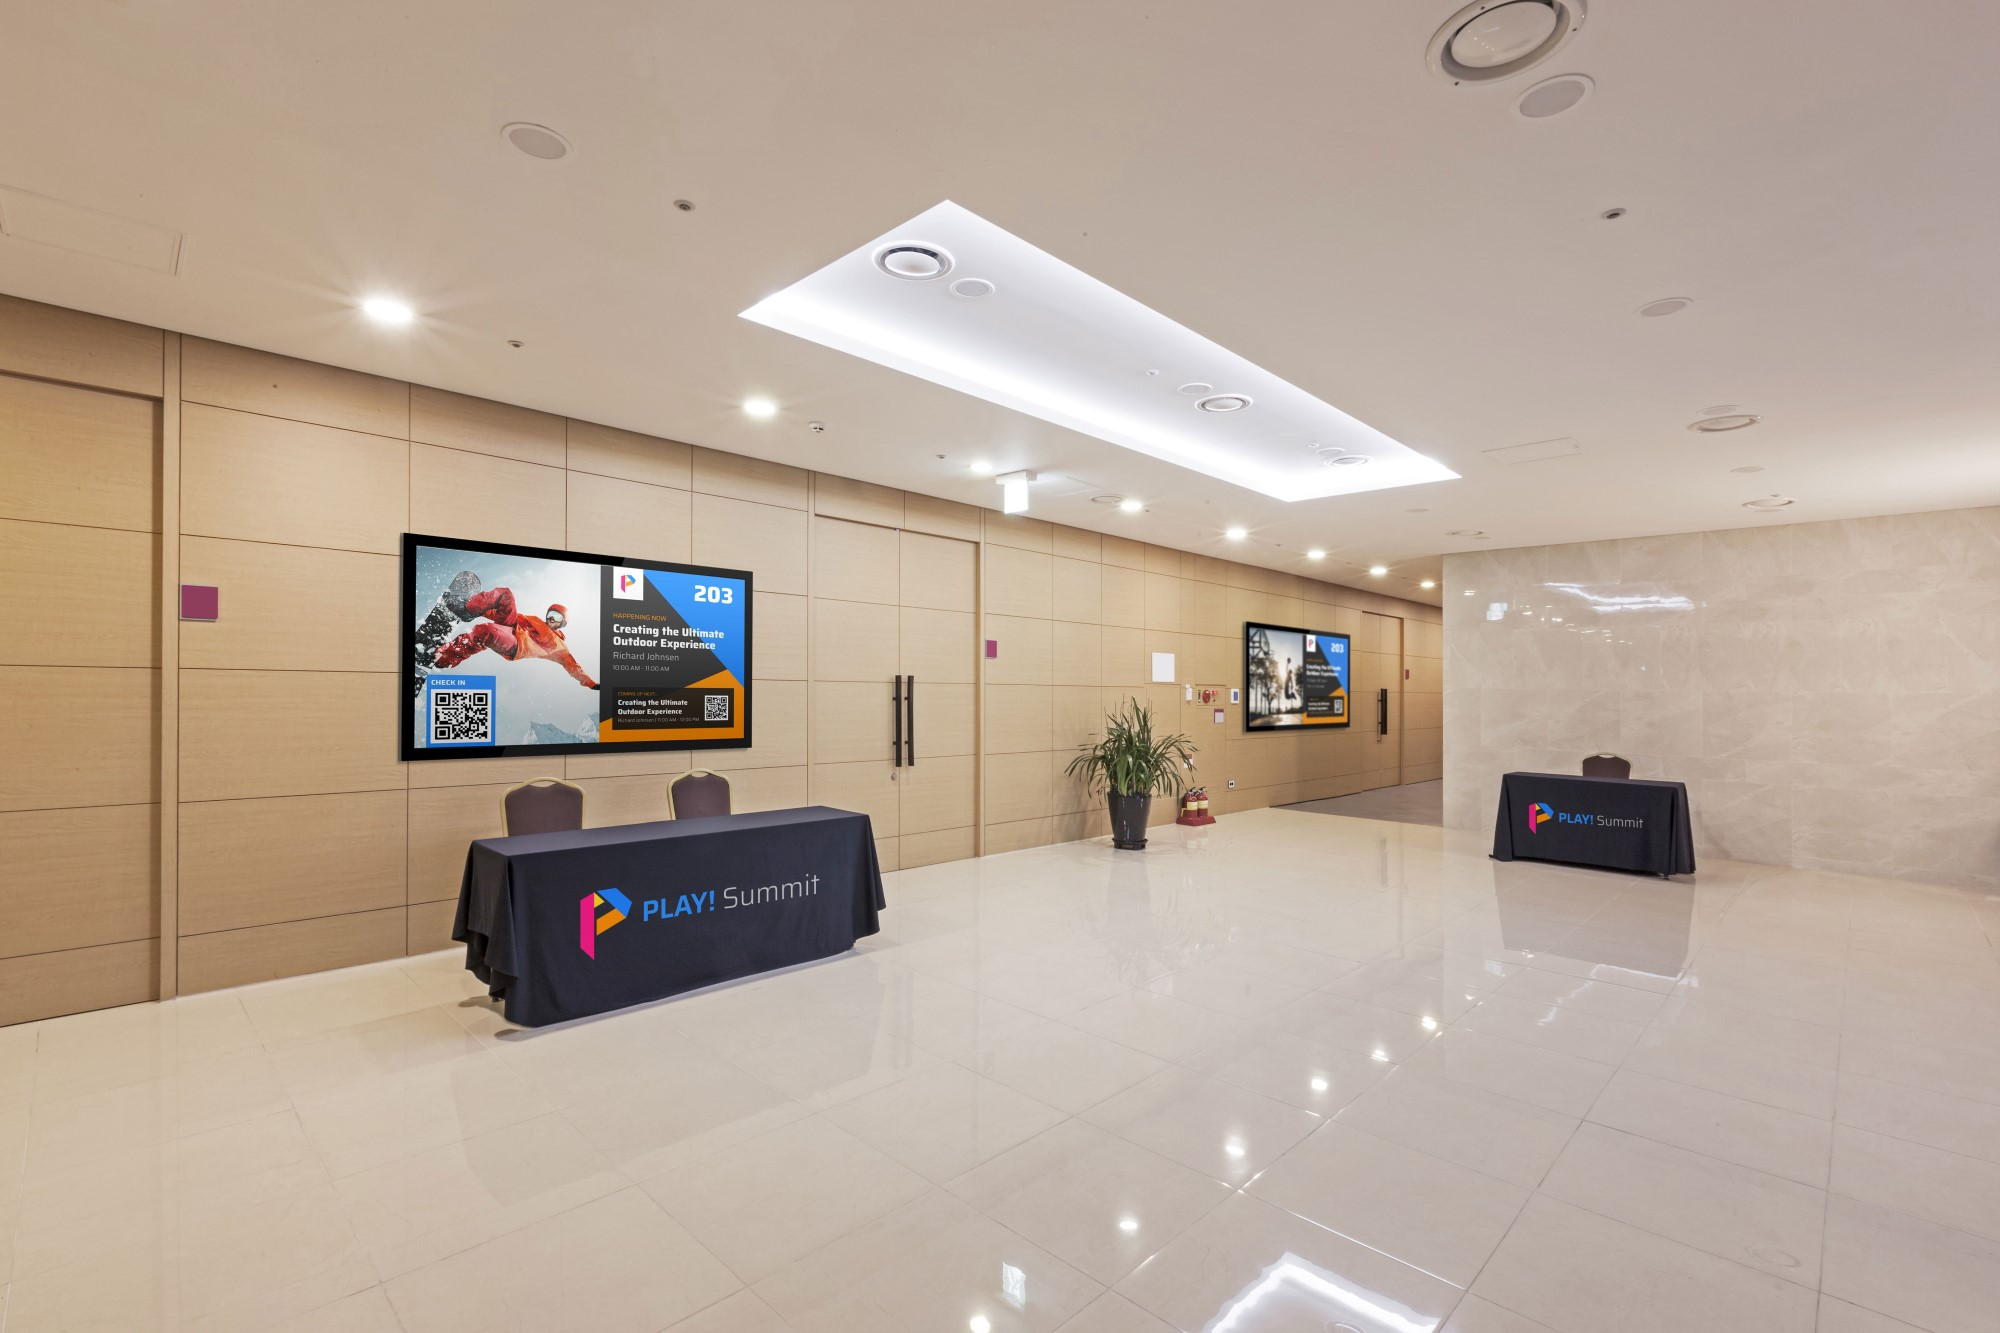
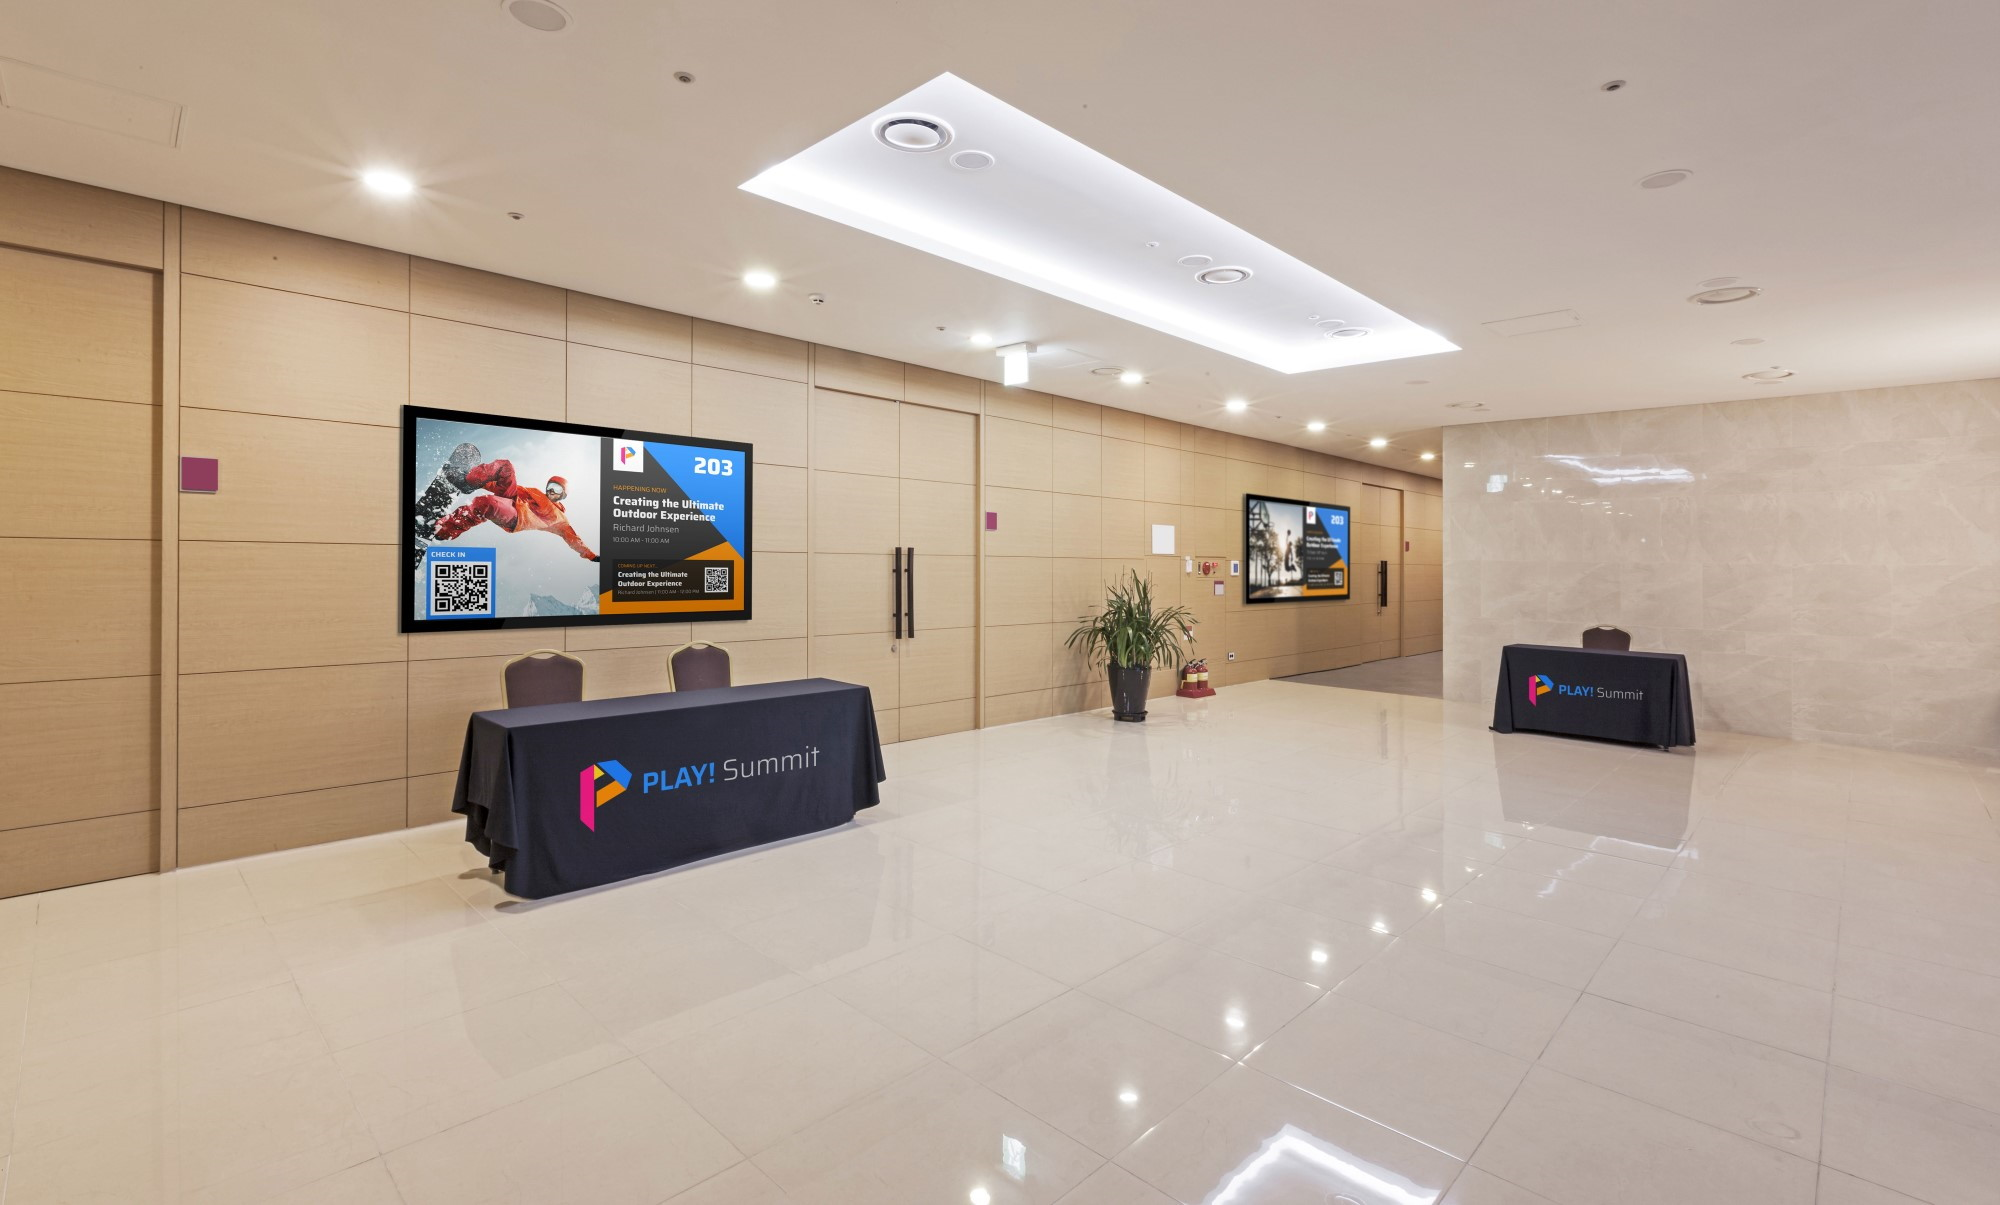
Updated hallway image

diff --git a/tv/styles/layout/roomList.css b/tv/styles/layout/roomList.css
@@ -13,7 +13,7 @@ html {
   .tv-one {
     @apply absolute cursor-pointer;
 
-    top: 545px;
+    top: 425px;
     left: 415px;
     width: 329px;
     height: 203px;
@@ -24,7 +24,7 @@ html {
   .tv-two {
     @apply absolute;
 
-    top: 628px;
+    top: 508px;
     left: 1249px;
     width: 98px;
     height: 99px;
